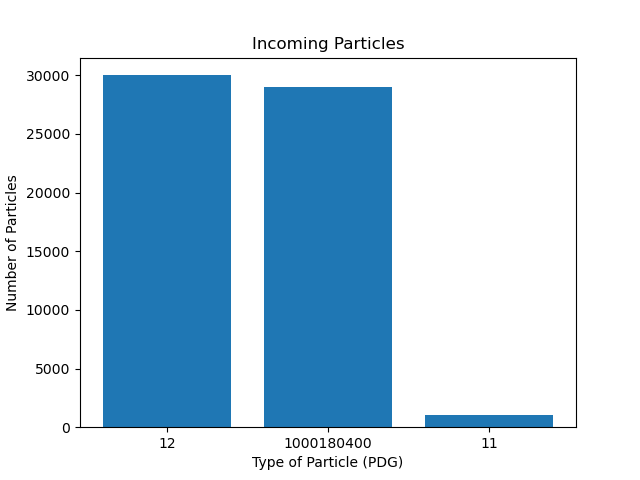
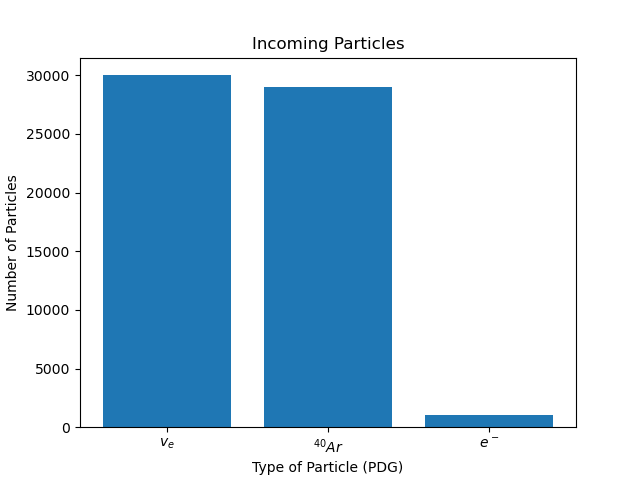
question 2 and 3 done?

Changed region(s): [[0.4062, 0.9062, 0.625, 1.0], [0.75, 0.9062, 0.7812, 0.9375], [0.25, 0.9062, 0.2812, 0.9375]]

diff --git a/FirstAnalysis.py b/FirstAnalysis.py
@@ -31,15 +31,24 @@ while line:
 			dict_out[PDG] = 1
 	line = file.readline().split()	
 
-#dict_symbols = {"11":r"$e^-$", "12":r"$v_e$", 
-#finish mapping values to symbols, $ means math mode, r is for correct formatting
+dict_symbols = {"11":r"$e^-$", "12":r"$v_e$", "13":r"$μ^-$", "14":r"$v_μ$", 
+		"15":r"$τ^-$", "16":r"$v_τ$", "22":r"$γ$", "2112":r"n", "2212":r"p", 
+		"1000010020":r"d", "1000010030":r"t", "1000020030":r"h", 
+		"1000020040":r"$α$", "1000180400":r"$^{40} Ar$", 
+		"1000190400":"$^{40} K$", 
+		"1000170350":"$^{35} Cl$", "1000190390":"$^{39} K$", 
+		"1000180380":r"$^{38} Ar$", "1000170360":r"$^{36} Cl$",
+		"1000180390":r"$^{39} Ar$", "1000160350":r"$^{35} S$",
+		"1000170380":r"$^{38} Cl$", "1000160340":r"$^{34} S$",
+		"1000190380":r"$^{38} K$", "1000180370":r"$^{37} Ar$"}
+#$ means math mode, r is for correct formatting
 
-#x_vals_in = (dict_symbols[x] for x in dict_in.keys()) #mapping symbols to keys
-#x_vals_out = (dict_symbols[x] for x in dict_out.keys()) #mapping symbols to keys
+x_vals_in = list(dict_symbols[x] for x in dict_in.keys()) #mapping symbols to keys
+x_vals_out = list(dict_symbols[x] for x in dict_out.keys()) #mapping symbols to keys
 #sub these in the graphs to replace 'dict_in.keys()' and out for x values
 
 plt.figure("in")
-plt.bar(dict_in.keys(), dict_in.values())
+plt.bar(x_vals_in, dict_in.values())
 plt.title("Incoming Particles")
 plt.xlabel("Type of Particle (PDG)")
 plt.ylabel("Number of Particles")
@@ -47,10 +56,11 @@ plt.savefig("plt_in.png")
 
 
 plt.figure("out")
-plt.bar(dict_out.keys(), dict_out.values())
+plt.bar(x_vals_out, dict_out.values())
 plt.title("Outgoing Particles")
 plt.xlabel("Type of Particle (PDG)")
 plt.ylabel("Number of Particles")
+plt.tick_params(labelsize=6)
 plt.savefig("plt_out.png")
 
  
@@ -71,7 +81,7 @@ while line:
 		PDG = data[0]
 		Etot = float(data[1])
 		if PDG in dict_initial:
-			dict_initial[PDG] = dict_initial[PDG].append(Etot)
+			dict_initial[PDG].append(Etot)
 		else:
 			dict_initial[PDG] = [Etot]
 	for x in range(nf):
@@ -79,30 +89,33 @@ while line:
 		PDG = data[0]
 		Etot = float(data[1])
 		if PDG in dict_final:
-			dict_final[PDG] = dict_final[PDG].append(Etot)
+			dict_final[PDG].append(Etot)
 		else:
 			dict_final[PDG] = [Etot]
 	line = file.readline().split()
 
-#symbols_set_in = (dict_symbols[x] for x in dict_initial.keys()) #mapping symbols to keys
-#symbols_set_out = (dict_symbols[x] for x in dict_final.keys()) #mapping symbols to keys
+#mapping symbols to keys
+symbols_set_in = list(dict_symbols[x] for x in dict_initial.keys()) 
+symbols_set_out = list(dict_symbols[x] for x in dict_final.keys())
 #replace x axis below for graphing with this set
 
-for x in range(len(dict_initial)):
-	plt.figure(str(dict_inital.keys()[x]))
-	plt.hist(dict_initial[x], bins = 20)
-	plt.title("Initial Energy Distribution of " + str(dict_inital.keys()[x]))
+for pdg_code, energies in dict_initial.items():
+	plt.figure("initial"+ pdg_code)
+	plt.hist(energies, bins = 20)
+	symbol = dict_symbols.get(pdg_code)
+	plt.title("Initial Energy Distribution of " + symbol)
 	plt.xlabel("Energies (MeV)")
 	plt.ylabel("Number of Particles")
-	plt.savefig(str(dict_inital.keys()[x]) + ".png")
+	plt.savefig("initial_" + pdg_code + ".png")
 
-for x in range(len(dict_final)):
-	plt.figure(str(dict_final.keys()[x]))
-	plt.hist(dict_final[0], bins = 20)
-	plt.title("Initial Energy Distribution of " + str(dict_final.keys()[x]))
+for pdg_code, energies in dict_final.items():
+	plt.figure("final"+ pdg_code)
+	plt.hist(energies, bins = 20)
+	symbol = dict_symbols.get(pdg_code)
+	plt.title("Final Energy Distribution of " + symbol)
 	plt.xlabel("Energies (MeV)")
 	plt.ylabel("Number of Particles")
-	plt.savefig(str(dict_final.keys()[x]) + ".png")
+	plt.savefig("final_" + pdg_code + ".png")
 
 
 
